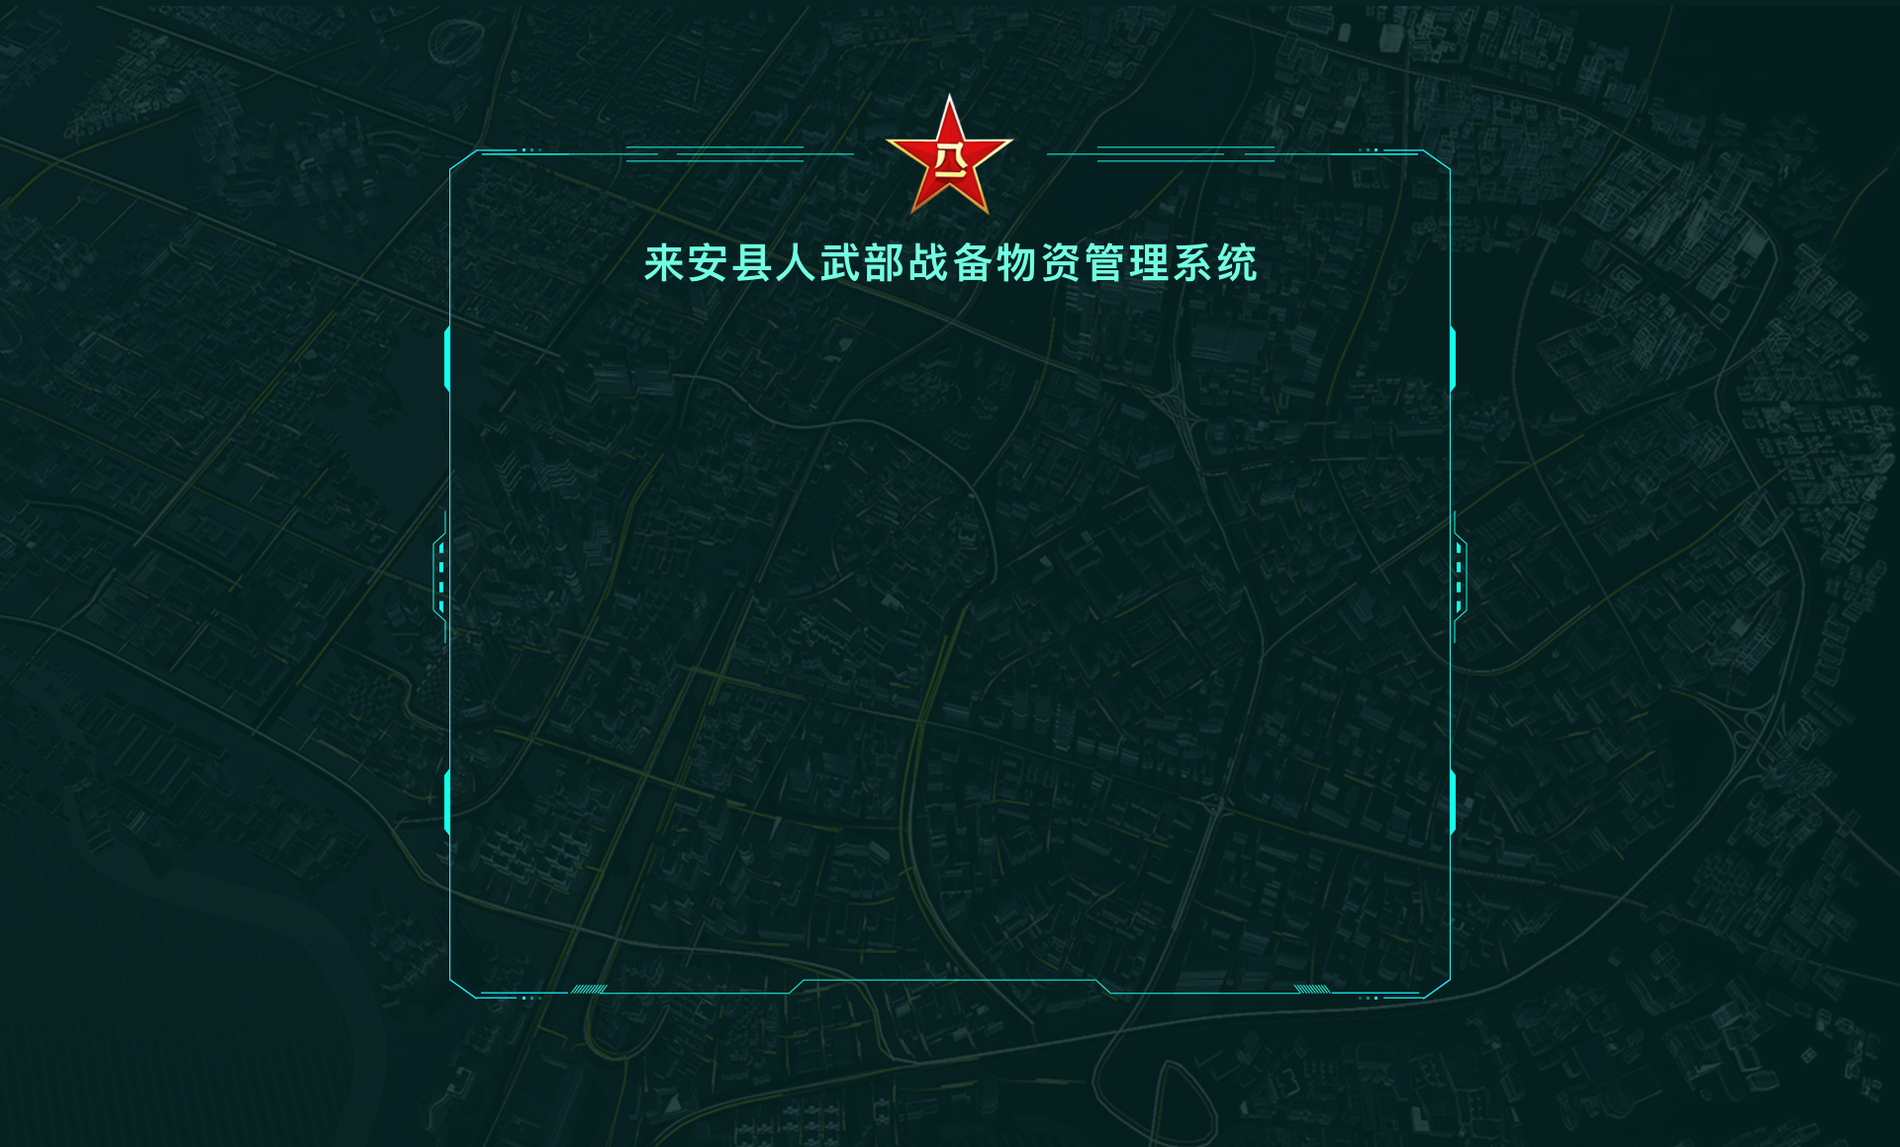
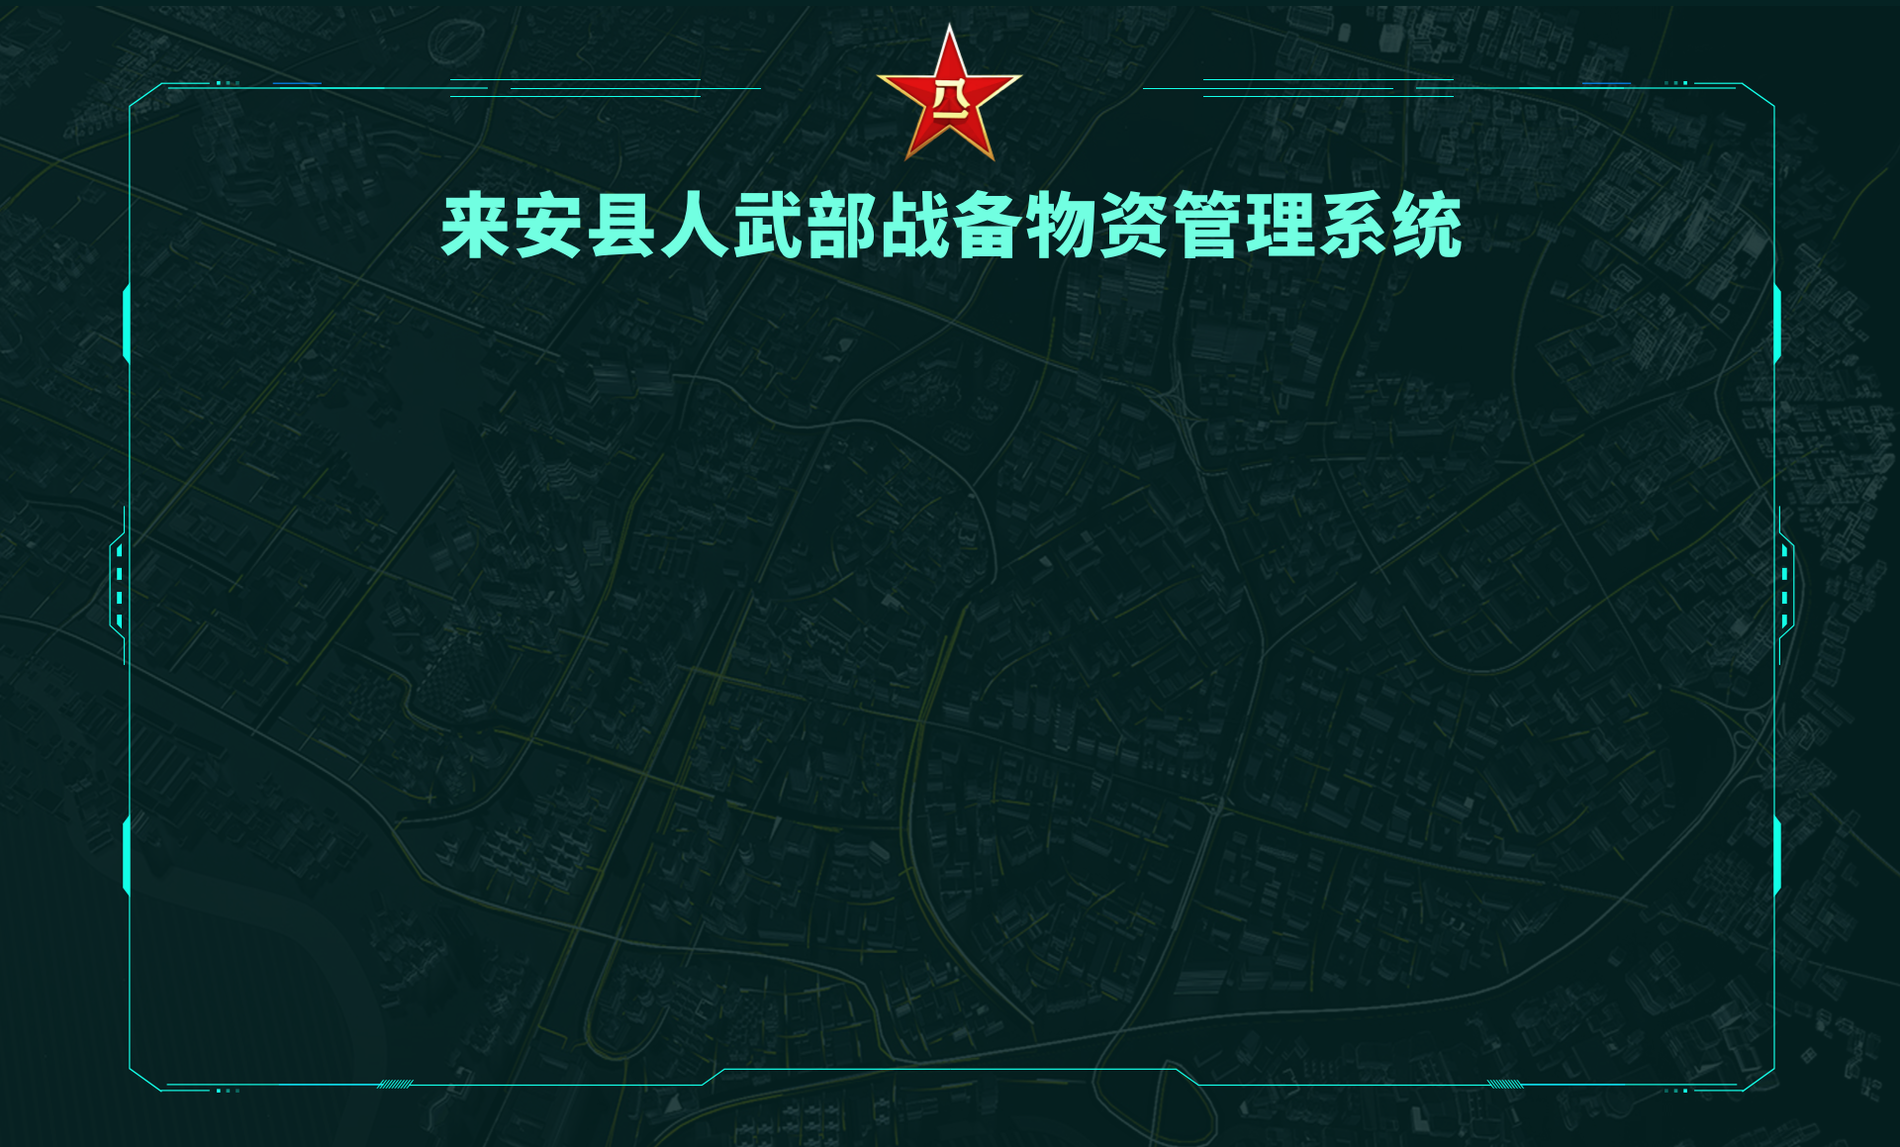
登录界面风格调整，任务分类列表查询

diff --git a/Service/WmsView/CLDC.CLWS.CLWCS.Service.WmsView/View/UcAreaList.xaml b/Service/WmsView/CLDC.CLWS.CLWCS.Service.WmsView/View/UcAreaList.xaml
@@ -1,12 +1,111 @@
 <UserControl x:Class="CLDC.CLWS.CLWCS.Service.WmsView.View.UcAreaList"
              xmlns="http://schemas.microsoft.com/winfx/2006/xaml/presentation"
+             xmlns:materialDesign="http://materialdesigninxaml.net/winfx/xaml/themes"
+             xmlns:d="http://schemas.microsoft.com/expression/blend/2008"
              xmlns:x="http://schemas.microsoft.com/winfx/2006/xaml"
-             xmlns:mc="http://schemas.openxmlformats.org/markup-compatibility/2006" 
-             xmlns:d="http://schemas.microsoft.com/expression/blend/2008" 
-             xmlns:local="clr-namespace:CLDC.CLWS.CLWCS.Service.WmsView.View"
-             mc:Ignorable="d" 
-             d:DesignHeight="450" d:DesignWidth="800">
-    <Grid>
-        <Button>正在建设中。。。</Button>
-    </Grid>
+             xmlns:mc="http://schemas.openxmlformats.org/markup-compatibility/2006"
+             mc:Ignorable="d" d:DesignHeight="856" d:DesignWidth="1044" Width="1044" Height="856" Background="White" x:Name="_this">
+    <UserControl.Resources>
+        <ResourceDictionary>
+            <ResourceDictionary.MergedDictionaries>
+                <ResourceDictionary Source="pack://application:,,,/MaterialDesignThemes.Wpf;component/Themes/MaterialDesignTheme.Button.xaml" />
+                <ResourceDictionary Source="pack://application:,,,/MaterialDesignThemes.Wpf;component/Themes/MaterialDesignTheme.CheckBox.xaml" />
+                <ResourceDictionary Source="pack://application:,,,/MaterialDesignThemes.Wpf;component/Themes/MaterialDesignTheme.ListBox.xaml" />
+                <ResourceDictionary Source="pack://application:,,,/MaterialDesignThemes.Wpf;component/Themes/MaterialDesignTheme.PopupBox.xaml" />
+                <ResourceDictionary Source="pack://application:,,,/MaterialDesignThemes.Wpf;component/Themes/MaterialDesignTheme.RadioButton.xaml" />
+                <ResourceDictionary Source="pack://application:,,,/MaterialDesignThemes.Wpf;component/Themes/MaterialDesignTheme.TextBlock.xaml" />
+                <ResourceDictionary Source="pack://application:,,,/MaterialDesignThemes.Wpf;component/Themes/MaterialDesignTheme.ToggleButton.xaml" />
+                <ResourceDictionary Source="pack://application:,,,/MaterialDesignThemes.Wpf;component/Themes/MaterialDesignTheme.Shadows.xaml" />
+                <ResourceDictionary Source="pack://application:,,,/MaterialDesignThemes.Wpf;component/Themes/MaterialDesignTheme.ToggleButton.xaml" />
+                <ResourceDictionary Source="pack://application:,,,/MaterialDesignThemes.Wpf;component/Themes/MaterialDesignTheme.Light.xaml" />
+                <ResourceDictionary Source="pack://application:,,,/MaterialDesignThemes.Wpf;component/Themes/MaterialDesignTheme.Defaults.xaml" />
+                <ResourceDictionary Source="/CLDC.Infrastructrue.UserCtrl;component/Style/UserControlStyle.xaml" />
+            </ResourceDictionary.MergedDictionaries>
+        </ResourceDictionary>
+    </UserControl.Resources>
+    <Border Background="#245D55" CornerRadius="2">
+        <Grid>
+            <Grid.Background>
+                <ImageBrush ImageSource="/CLDC.CLWS.CLWCS.Service.WmsView;component/Images/box_left_bg.png" />
+            </Grid.Background>
+            <Grid.ColumnDefinitions>
+                <ColumnDefinition Width="10"/>
+                <ColumnDefinition/>
+                <ColumnDefinition Width="10"/>
+            </Grid.ColumnDefinitions>
+            <Grid Grid.Column="1">
+                <Grid.RowDefinitions>
+                    <RowDefinition Height="40"/>
+                    <RowDefinition x:Name="ContentRow"/>
+                </Grid.RowDefinitions>
+                <Label FontSize="20"  Grid.Row="0" FontWeight="Bold" Foreground="#245D55" HorizontalAlignment="Left" VerticalAlignment="Center">任务分类维护</Label>
+
+                <Grid Grid.Row="1">
+                    <Grid>
+                        <Grid.RowDefinitions>
+                            <RowDefinition x:Name="RowSearch" Height="60"/>
+                            <RowDefinition/>
+                            <RowDefinition Height="5"/>
+                        </Grid.RowDefinitions>
+                        <Grid Grid.Row="0">
+                            <WrapPanel VerticalAlignment="Center" HorizontalAlignment="Left">
+                                <Button Width="68" FontSize="18" Command="{Binding CreateAccountCommand}" CommandParameter="1">新增</Button>
+                                <Button Width="68" FontSize="18" Command="{Binding DeleteAccountCommand}" CommandParameter="1">删除</Button>
+                                <Button Width="68" FontSize="18" Command="{Binding EditAccountCommand}" CommandParameter="1">编辑</Button>
+                            </WrapPanel>
+                        </Grid>
+                        <Grid Grid.Row="1" Margin="5">
+                            <DataGrid Name="AreaListGrid" FontSize="18"
+                              ScrollViewer.VerticalScrollBarVisibility="Auto"
+                              ScrollViewer.HorizontalScrollBarVisibility="Auto"
+                              AutoGenerateColumns="False"
+                              materialDesign:DataGridAssist.CellPadding="4 2 2 2"
+                              materialDesign:DataGridAssist.ColumnHeaderPadding="4 2 2 2"
+                              ItemsSource="{Binding AreaList}" 
+                              SelectedValue="{Binding SelectedValue}"
+                                      HorizontalContentAlignment="Center"
+                                      VerticalContentAlignment="Center"
+                              CanUserAddRows="False"  LoadingRow="AreaListGrid_LoadingRow"
+                              CanUserDeleteRows="False" CanUserResizeColumns="False">
+                                <DataGrid.ColumnHeaderStyle>
+                                    <Style TargetType="DataGridColumnHeader">
+                                        <Setter Property="Background">
+                                            <Setter.Value>
+                                                <ImageBrush ImageSource="/CLDC.CLWS.CLWCS.Service.WmsView;component/Images/box_left_bg.png" />
+                                            </Setter.Value>
+                                        </Setter>
+                                        <Setter Property="Foreground" Value="#FFFFFF"/>
+                                        <Setter Property="FontSize" Value="18" />
+                                        <Setter Property="Height" Value="35"/>
+                                        <Setter Property="VerticalContentAlignment" Value="Center"/>
+                                        <Setter Property="HorizontalContentAlignment" Value="Center"/>
+                                    </Style>
+                                </DataGrid.ColumnHeaderStyle>
+                                <DataGrid.InputBindings>
+                                    <MouseBinding Gesture="LeftDoubleClick" Command="{Binding ShowDetailCommand}" CommandParameter="{Binding ElementName=AreaListGrid,Path=SelectedItem}"/>
+                                </DataGrid.InputBindings>
+                                <DataGrid.Columns>
+                                    <DataGridTemplateColumn Width="60" Header="序号">
+                                        <DataGridTemplateColumn.CellTemplate>
+                                            <DataTemplate>
+                                                <TextBlock TextAlignment="Center" Text="{Binding RelativeSource={RelativeSource Mode=FindAncestor,AncestorType={x:Type DataGridRow}}, Path=Header}"
+                                                         FontSize="20" HorizontalAlignment="Center" VerticalAlignment="Center"/>
+                                            </DataTemplate>
+                                        </DataGridTemplateColumn.CellTemplate>
+                                    </DataGridTemplateColumn>
+                                    <DataGridTextColumn Header="任务编码" Width="100" Binding="{Binding AreaCode}" IsReadOnly="True"/>
+                                    <DataGridTextColumn Header="任务分类" Width="190" Binding="{Binding AreaName}" IsReadOnly="True"/>
+                                    <DataGridTextColumn Header="所在行" Width="100" Binding="{Binding ROW}" IsReadOnly="True"/>
+                                    <DataGridTextColumn Header="所在列" Width="100" Binding="{Binding COLUMN}"/>
+                                    <DataGridTextColumn Header="是否启用" Width="100" Binding="{Binding Status}"/>
+                                    <DataGridTextColumn Header="创建者" Width="100" Binding="{Binding CreatedUserName}" IsReadOnly="True"/>
+                                    <DataGridTextColumn Header="创建时间" Width="220" Binding="{Binding CreatedTime,StringFormat='{}{0:yyyy-MM-dd HH:mm:ss}'}" IsReadOnly="True"/>
+                                </DataGrid.Columns>
+                            </DataGrid>
+                        </Grid>
+                    </Grid>
+                </Grid>
+            </Grid>
+        </Grid>
+    </Border>
 </UserControl>

diff --git a/Service/StartService/CLDC.CLWS.CLWCS.Service.StartService/Login/Login.xaml b/Service/StartService/CLDC.CLWS.CLWCS.Service.StartService/Login/Login.xaml
@@ -12,17 +12,17 @@
         </Border.Background>
         <Grid Width="{Binding ElementName=_this,Path=ActualWidth}" Height="{Binding ElementName=_this,Path=ActualHeight}">
             <DockPanel>
-                <Grid  Width="269" Height="280"  HorizontalAlignment="Center" Margin="0,70,0,0" VerticalAlignment="Center">
+                <Grid  Width="260" Height="260"  HorizontalAlignment="Center" Margin="0,80,0,0" VerticalAlignment="Center">
                     <Grid.RowDefinitions>
+                        <RowDefinition Height="1"/>
+                        <RowDefinition Height="60"/>
+                        <RowDefinition Height="20"/>
+                        <RowDefinition Height="60"/>
                         <RowDefinition Height="10"/>
-                        <RowDefinition  Height="60"/>
-                        <RowDefinition Height="10"/>
-                        <RowDefinition  Height="60"/>
-                        <RowDefinition Height="10"/>
-                        <RowDefinition  Height="45"/>
-                        <RowDefinition Height="10"/>
-                        <RowDefinition Height="60"></RowDefinition>
-                        <RowDefinition />
+                        <RowDefinition Height="45"/>
+                        <RowDefinition Height="1"/>
+                        <RowDefinition Height="70"></RowDefinition>
+                        <RowDefinition Height="1"/>
                     </Grid.RowDefinitions>
                     <StackPanel Grid.Row="1" VerticalAlignment="Center" >
                         <Border Background="White" MaxHeight="60" MinHeight="55" CornerRadius="5" ToolTip="输入账号">
@@ -59,9 +59,9 @@
                         </Grid>
                     </StackPanel>
                     <StackPanel Grid.Row="7" Orientation="Horizontal" HorizontalAlignment="Right">
-                        <Button Width="100" Height="46"  Name="BtnCancelLogin" materialDesign:ButtonAssist.CornerRadius="5" Foreground="White"   Content="取消" Click="BtnCancelLogin_Click" FontSize="20" Margin="3"  BorderThickness="0"  Style="{StaticResource MaterialDesignRaisedButton}"/>
-                        <TextBlock Width="56"></TextBlock>
-                        <Button Width="100" Height="46"  Name="BtnLogin" materialDesign:ButtonAssist.CornerRadius="5" Foreground="White"   BorderThickness="0"  FontSize="20" Content="登录" Margin="3" Click="BtnLogin_Click"   Style="{StaticResource MaterialDesignRaisedButton}"/>
+                        <Button Width="120" Height="55"  Name="BtnCancelLogin" materialDesign:ButtonAssist.CornerRadius="5" Foreground="White"   Content="取消" Click="BtnCancelLogin_Click" FontSize="25" Margin="3"  BorderThickness="0"  Style="{StaticResource MaterialDesignRaisedButton}"/>
+                        <TextBlock Width="10"></TextBlock>
+                        <Button Width="120" Height="55"  Name="BtnLogin" materialDesign:ButtonAssist.CornerRadius="5" Foreground="White"   BorderThickness="0"  FontSize="25" Content="登录" Margin="3" Click="BtnLogin_Click"   Style="{StaticResource MaterialDesignRaisedButton}"/>
                     </StackPanel>
                 </Grid>
             </DockPanel>

diff --git a/Service/WmsView/CLDC.CLWS.CLWCS.Service.WmsView/ViewModel/AreaListViewModel.cs b/Service/WmsView/CLDC.CLWS.CLWCS.Service.WmsView/ViewModel/AreaListViewModel.cs
@@ -1,0 +1,140 @@
+using CLDC.CLWS.CLWCS.Framework;
+using CLDC.CLWS.CLWCS.Infrastructrue.DataModel;
+using CLDC.CLWS.CLWCS.Service.WmsView.Model;
+using CLDC.CLWS.CLWCS.WareHouse.Device.TaskHandleCenter;
+using CLDC.Infrastructrue.UserCtrl;
+using CLDC.Infrastructrue.UserCtrl.Model;
+using GalaSoft.MvvmLight;
+using Infrastructrue.Ioc.DependencyFactory;
+using System;
+using System.Collections.Generic;
+using System.Collections.ObjectModel;
+using System.Linq.Expressions;
+
+namespace CLDC.CLWS.CLWCS.Service.WmsView.ViewModel
+{
+    public class AreaListViewModel : ViewModelBase
+    {
+        private string _curArea;
+        private int? _curStatus;
+        private string _curTaskType;
+        private WmsDataService _wmsDataService;
+        public ObservableCollection<Area> AreaList { get; set; }
+
+        /// <summary>
+        /// 当前搜索的区域
+        /// </summary>
+        public string CurArea
+        {
+            get { return _curArea; }
+            set
+            {
+                _curArea = value;
+                RaisePropertyChanged();
+            }
+        }
+
+        /// <summary>
+        /// 当前搜索的启用状态
+        /// </summary>
+        public int? CurStatus
+        {
+            get { return _curStatus; }
+            set
+            {
+                _curStatus = value;
+                RaisePropertyChanged();
+            }
+        }
+        /// <summary>
+        /// 当前搜索的任务分类
+        /// </summary>
+        public string CurTaskType
+        {
+            get { return _curTaskType; }
+            set
+            {
+                _curTaskType = value;
+                RaisePropertyChanged();
+            }
+        }
+
+        private readonly Dictionary<InvStatusEnum, string> _invStatusDict = new Dictionary<InvStatusEnum, string>();
+        public Dictionary<InvStatusEnum, string> InvStatusDict
+        {
+            get
+            {
+                if (_invStatusDict.Count == 0)
+                {
+                    foreach (var value in Enum.GetValues(typeof(InvStatusEnum)))
+                    {
+                        InvStatusEnum em = (InvStatusEnum)value;
+                        _invStatusDict.Add(em, em.GetDescription());
+                    }
+                }
+                return _invStatusDict;
+            }
+        }
+
+        public AreaListViewModel()
+        {
+            AreaList = new ObservableCollection<Area>();
+            _wmsDataService = DependencyHelper.GetService<WmsDataService>();
+        }
+
+
+        private RelayCommand _searchCommand;
+        public RelayCommand SearchCommand
+        {
+            get
+            {
+                if (_searchCommand == null)
+                {
+                    _searchCommand = new RelayCommand(Search);
+                }
+                return _searchCommand;
+            }
+        }
+
+        private void Search()
+        {
+            AreaList.Clear();
+            try
+            {
+                var where = CombineSearchSql();
+                OperateResult<List<Area>> accountListResult = _wmsDataService.GetAreaPageList(where);
+                if (!accountListResult.IsSuccess)
+                {
+                    SnackbarQueue.MessageQueue.Enqueue("查询出错：" + accountListResult.Message);
+                    return;
+                }
+                if (accountListResult.Content != null && accountListResult.Content.Count > 0)
+                {
+                    accountListResult.Content.ForEach(ite =>
+                    {
+                        AreaList.Add(ite);
+                    });
+                }
+            }
+            catch (Exception ex)
+            {
+                SnackbarQueue.MessageQueue.Enqueue("查询异常：" + ex.Message);
+            }
+        }
+
+        private Expression<Func<Area, bool>> CombineSearchSql()
+        {
+            Expression<Func<Area, bool>> whereLambda = t => t.IsDeleted == false;
+            if (!string.IsNullOrEmpty(CurArea))
+            {
+                whereLambda = whereLambda.AndAlso(t => t.AreaCode == CurArea);
+            }
+            if (CurStatus.HasValue)
+            {
+                whereLambda = whereLambda.AndAlso(t => t.Status == CurStatus.Value);
+            }
+            return whereLambda;
+        }
+
+    }
+}

diff --git a/Service/WmsView/CLDC.CLWS.CLWCS.Service.WmsView/SqlSugar/WmsDataSqlSugar.cs b/Service/WmsView/CLDC.CLWS.CLWCS.Service.WmsView/SqlSugar/WmsDataSqlSugar.cs
@@ -162,6 +162,24 @@ namespace CLDC.CLWS.CLWCS.Service.WmsView.SqlSugar
             return result;
         }
 
+        public override OperateResult<List<Area>> GetAreaPageList(Expression<Func<Area, bool>> whereLambda = null)
+        {
+            OperateResult<List<Area>> result = OperateResult.CreateFailedResult<List<Area>>("无数据");
+            try
+            {
+                List<Area> list = DbHelper.QueryList(whereLambda);
+                result.IsSuccess = true;
+                result.Content = list;
+            }
+            catch (Exception ex)
+            {
+                result.IsSuccess = false;
+                result.Message = OperateResult.ConvertException(ex);
+
+            }
+            return result;
+        }
+
         public override double GetInvQtyByStatus(InvStatusEnum status)
         {
             double invQty = 0;

diff --git a/Service/WmsView/CLDC.CLWS.CLWCS.Service.WmsView/View/UcAreaList.xaml.cs b/Service/WmsView/CLDC.CLWS.CLWCS.Service.WmsView/View/UcAreaList.xaml.cs
@@ -1,4 +1,5 @@
-using System;
+using CLDC.CLWS.CLWCS.Service.WmsView.ViewModel;
+using System;
 using System.Collections.Generic;
 using System.Linq;
 using System.Text;
@@ -20,9 +21,22 @@ namespace CLDC.CLWS.CLWCS.Service.WmsView.View
     /// </summary>
     public partial class UcAreaList : UserControl
     {
+        public AreaListViewModel ViewModel { get; set; }
         public UcAreaList()
         {
             InitializeComponent();
+            ViewModel = new AreaListViewModel();
+            DataContext = ViewModel;
+        }
+
+        private void BtnExit_Click(object sender, RoutedEventArgs e)
+        {
+
+        }
+
+        private void AreaListGrid_LoadingRow(object sender, DataGridRowEventArgs e)
+        {
+            e.Row.Header = (e.Row.GetIndex() + 1).ToString();
         }
     }
 }

diff --git a/Service/WmsView/CLDC.CLWS.CLWCS.Service.WmsView/SqlSugar/WmsDataAbstract.cs b/Service/WmsView/CLDC.CLWS.CLWCS.Service.WmsView/SqlSugar/WmsDataAbstract.cs
@@ -48,7 +48,7 @@ namespace CLDC.CLWS.CLWCS.Service.WmsView
         public abstract OperateResult<List<Order>> GetOrderAndMaterList(Expression<Func<Order, bool>> whereLambda = null);
 
         public abstract OperateResult<List<Inventory>> GetInventoryPageList(string where);
-
+        public abstract OperateResult<List<Area>> GetAreaPageList(Expression<Func<Area, bool>> whereLambda = null);
         public abstract double GetInvQtyByStatus(InvStatusEnum status);
 
         public abstract Inventory GetInventory(string Barcode);

diff --git a/Service/WmsView/CLDC.CLWS.CLWCS.Service.WmsView/SqlSugar/WmsDataService.cs b/Service/WmsView/CLDC.CLWS.CLWCS.Service.WmsView/SqlSugar/WmsDataService.cs
@@ -78,6 +78,11 @@ namespace CLDC.CLWS.CLWCS.Service.WmsView
             return _wmsDataAccess.GetInventoryPageList(where);
         }
 
+        public OperateResult<List<Area>> GetAreaPageList(Expression<Func<Area, bool>> whereLambda = null)
+        {
+            return _wmsDataAccess.GetAreaPageList(whereLambda);
+        }
+
         public double GetInvQtyByStatus(InvStatusEnum status)
         {
             return _wmsDataAccess.GetInvQtyByStatus(status);

diff --git a/Service/WmsView/CLDC.CLWS.CLWCS.Service.WmsView/View/UcSetupView.xaml.cs b/Service/WmsView/CLDC.CLWS.CLWCS.Service.WmsView/View/UcSetupView.xaml.cs
@@ -47,7 +47,8 @@ namespace CLDC.CLWS.CLWCS.Service.WmsView.View
                 ucChildrens.Remove(ucChildrens[i]);
             }
             UcAreaList areaList = new UcAreaList();
-            UserContentControl.Children.Add(areaList);            
+            areaList.ViewModel.SearchCommand.Execute(null);
+            UserContentControl.Children.Add(areaList);
         }
 
 
